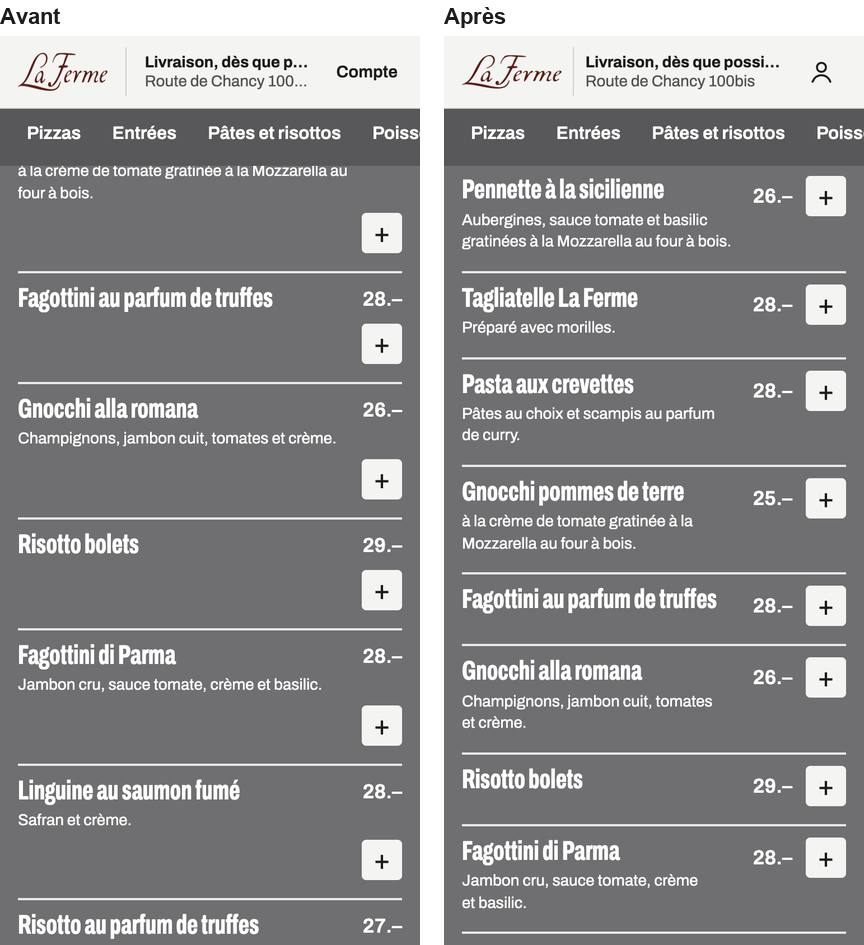
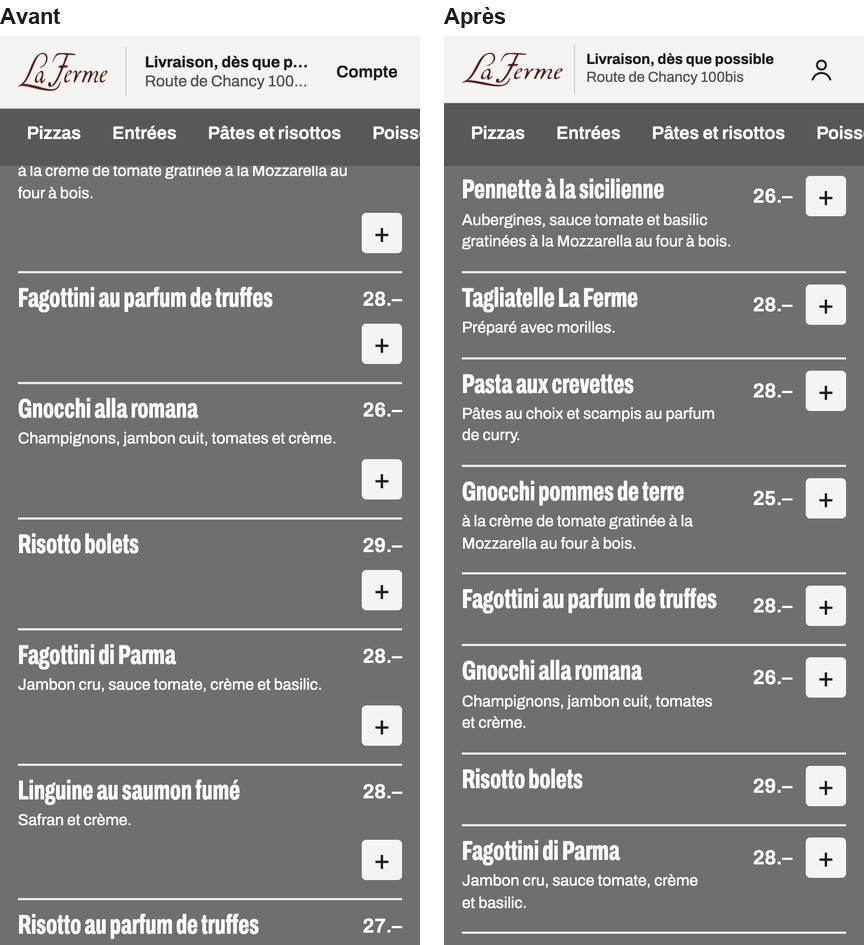
En-tête sur téléphone : le mode et l'heure passent sur deux lignes au lieu d'être coupés
« Livraison, dès que possible » et « À emporter, dès que possible » (sans heure promise connue)
étaient tronqués à 375 px. Sous 600 px, la ligne du mode passe sur deux lignes au plus, en 13 px,
dans les 60 px de l'en-tête (la barre des catégories ne bouge pas). Logo qui ne rétrécit plus,
réduit à 22 px et marges à 12 px sous 360 px pour garder la rue et son numéro entiers à 320 px.
Captures 01, 02, 05 refaites, 21 ajoutée (quatre cas à 320 et 375 px).

Changed region(s): [[0.5, 0.0307, 1.0, 0.1228]]

diff --git a/src/app/globals.css b/src/app/globals.css
@@ -1537,8 +1537,26 @@ body.fiche-ouverte {
   .logo img {
     height: 30px;
   }
+  /* Le mode et l'heure passent sur deux lignes plutôt que d'être coupés (« dès que possible », 320 px).
+     Trois lignes de 13 px tiennent dans les 60 px de l'en-tête : la barre des catégories reste en place. */
+  .tete {
+    padding-top: 6px;
+    padding-bottom: 6px;
+  }
   .tete-mode {
+    flex: 1 1 auto;
     padding-left: 10px;
+    font-size: 13px;
+    line-height: 1.2;
+  }
+  .logo {
+    flex: none;
+  }
+  .tete-mode strong {
+    display: -webkit-box;
+    white-space: normal;
+    -webkit-line-clamp: 2;
+    -webkit-box-orient: vertical;
   }
   .tete-compte-txt {
     position: absolute;
@@ -1547,6 +1565,16 @@ body.fiche-ouverte {
     overflow: hidden;
     clip: rect(0 0 0 0);
     white-space: nowrap;
+  }
+}
+/* 320 px (petits iPhone) : logo et marges réduits pour garder la rue et son numéro entiers. */
+@media (max-width: 359px) {
+  .tete {
+    padding-left: 12px;
+    padding-right: 12px;
+  }
+  .logo img {
+    height: 22px;
   }
 }
 .page-compte {
